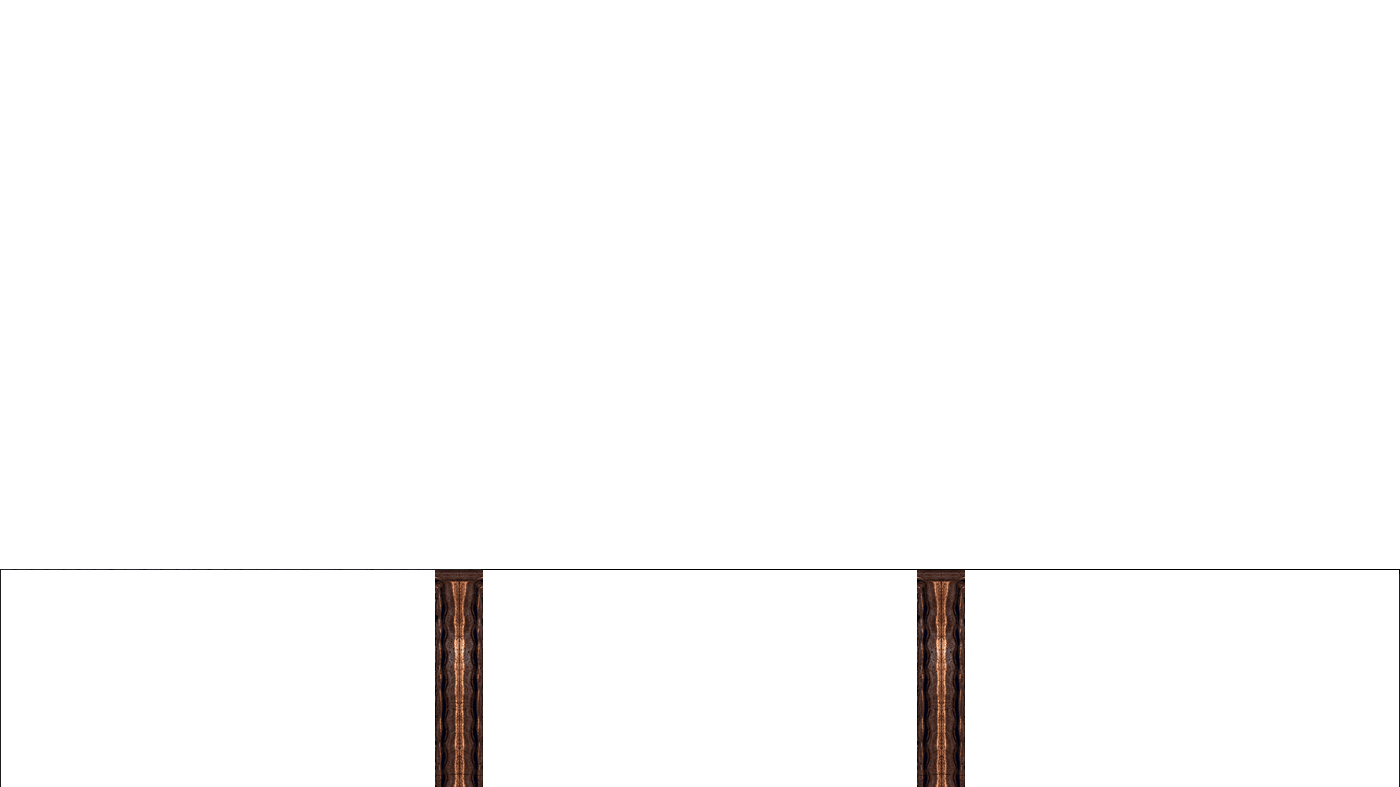
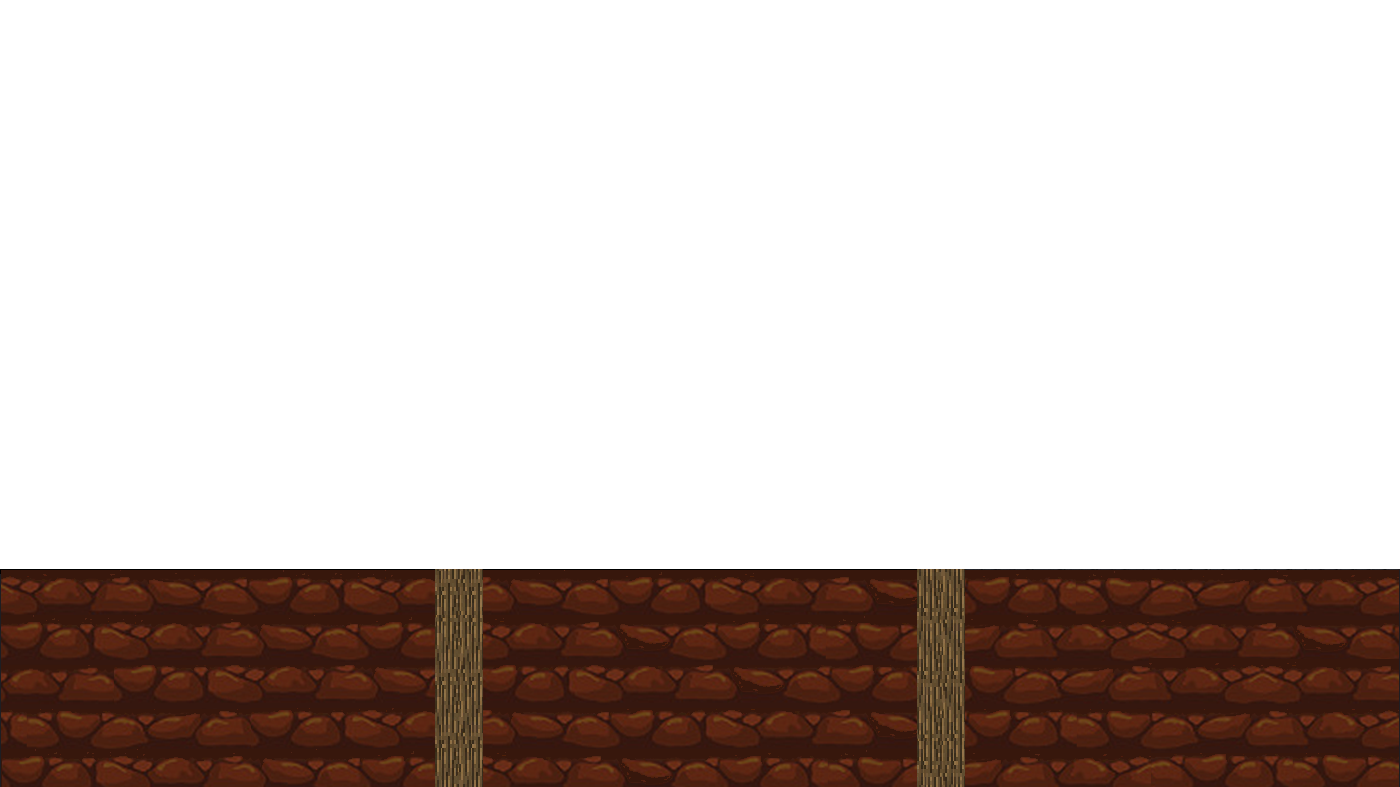
Atualizando

Changed region(s): [[0.0, 0.7014, 1.0, 1.0]]

diff --git a/JS/script.js b/JS/script.js
@@ -99,124 +99,7 @@ let continuaAndando = true;
         velocidade.querySelector(".velocimetro__cover").textContent = Math.round(valor) + " m/s";
     }
     
-//função responsável por obter quais teclas estão sendo precionadas
-class InputHandler{
-    constructor(){
-        this.keys = [];
-        window.addEventListener('keydown', e =>{
-            if((e.key === 'ArrowDown' ||
-                e.key === 'ArrowUp' ||
-                e.key === 'ArrowLeft' ||
-                e.key === 'ArrowRight')
-                && this.keys.indexOf(e.key) === -1){
-                    this.keys.push(e.key);
-            }
-        });
-        window.addEventListener('keyup', e =>{
-            if( e.key === 'ArrowDown' ||
-                e.key === 'ArrowUp' ||
-                e.key === 'ArrowLeft' ||
-                e.key === 'ArrowRight'){
-                    this.keys.splice(this.keys.indexOf(e.key), 1);
-            }
-        });
-    }
-}
 
-class Background{
-    constructor(image, speedModifier){
-        this.image = image;
-        this.width = CANVAS_WIDTH;
-        this.height = CANVAS_HEIGHT;
-        this.x = 0;
-        this.x2 = this.width;
-        this.y = 0;
-        this.speedModifier = speedModifier;
-        this.speed = calculoMovimentacao() * this.speedModifier;
-    }
-    update(){
-        this.speed = calculoMovimentacao() * this.speedModifier;         
-            if(this.x <= -this.width){
-                this.x = this.width + this.x2 - this.speed;
-            }
-            if(this.x2 <= -this.width){
-                this.x2 = this.width + this.x - this.speed;
-            }
-            this.x = Math.floor(this.x - this.speed);
-            this.x2 = Math.floor(this.x2 - this.speed)
-    }
-    draw(){
-        ctx.drawImage(this.image, this.x, this.y, this.width, this.height);
-        ctx.drawImage(this.image, this.x2, this.y, this.width, this.height);
-    }
-}
-
-class Layer{
-    constructor(image){
-        this.image = image;
-        this.width = CANVAS_WIDTH;
-        this.height = CANVAS_HEIGHT;
-        this.x = 0;
-        this.y = 0;
-    }
-    draw(){
-        ctx.drawImage(this.image, this.x, this.y, this.width, this.height);
-    }
-}
-
-class Box{
-    constructor(image){
-        this.width = 150;
-        this.height = 150;
-        this.x = CANVAS_WIDTH/2;
-        this.y = 305;
-        this.image = image;
-    }   
-    draw(){
-        ctx.drawImage(this.image, this.x, this.y, this.width, this.height);
-    } 
-}
-class Robot{
-    constructor(image){
-        this.width = 217;
-        this.height = 200;
-        this.x = 0;
-        this.y = CANVAS_HEIGHT - 450;
-        this.image = image;
-        this.Framex = 0;
-        this.Framey= 0;
-        this.speed = 0;
-        this.vy =0;
-        this.weight = 1;
-        this.tempo = 0;
-        
-    }
-    draw(context){
-        ctx.fillStyle = 'transparent';
-        context.fillRect(this.x, this.y, this.width, this. height);
-        context.drawImage(this.image, this.x, this.y, this.width, this.height);
-    }
-    colide(){
-        if(this.x + this.width > (CANVAS_WIDTH/2)){
-            if(this.x + this.width > (CANVAS_WIDTH/2)){
-                this.x -= ((this.x + this.width) - (CANVAS_WIDTH/2)) - 1; 
-            }
-            return true;
-        }else{
-            return false;
-        }
-        
-    }
-    update(input){ 
-            if(input.keys.indexOf('ArrowRight') > -1){
-                this.speed = 5;
-            }else if(input.keys.indexOf('ArrowLeft') > -1){
-                this.speed = -5;
-            }
-            this.x += this.speed;
-            if(this.x < -this.width) this.x = -this.width;     
-    }    
-}
 
 // funções responsaveis pelos calculos
 
@@ -314,11 +197,136 @@ function calculoMovimentacao(){
         }
         return movimentoSuculento;
 }
+class Background{
+    constructor(image, speedModifier){
+        this.image = image;
+        this.width = CANVAS_WIDTH;
+        this.height = CANVAS_HEIGHT;
+        this.x = 0;
+        this.x2 = this.width;
+        this.x3 = 2*this.width;
+        this.y = 0;
+        this.speedModifier = speedModifier;
+        this.speed = calculoMovimentacao() * this.speedModifier;
+    }
+    update(){
+        this.speed = calculoMovimentacao() * this.speedModifier;         
+            if(this.x <= -this.width){
+                this.x = this.width + this.x3 - this.speed;
+            }
+            if(this.x2 <= -this.width){
+                this.x2 = this.width + this.x - this.speed;
+            }
+            if(this.x3 <= -this.width){
+                this.x3 = this.width + this.x2 - this.speed;
+            }
+            this.x = Math.floor(this.x - this.speed);
+            this.x2 = Math.floor(this.x2 - this.speed)
+            this.x3 = Math.floor(this.x3 - this.speed)
+    }
+    draw(){
+        ctx.drawImage(this.image, this.x, this.y, this.width, this.height);
+        ctx.drawImage(this.image, this.x2, this.y, this.width, this.height);
+        ctx.drawImage(this.image, this.x3, this.y, this.width, this.height);
+    }
+}
+
+class Layer{
+    constructor(image){
+        this.image = image;
+        this.width = CANVAS_WIDTH;
+        this.height = CANVAS_HEIGHT;
+        this.x = 0;
+        this.y = 0;
+    }
+    draw(){
+        ctx.drawImage(this.image, this.x, this.y, this.width, this.height);
+    }
+}
+
+class Box{
+    constructor(image){
+        this.width = 150;
+        this.height = 150;
+        this.x = CANVAS_WIDTH/2;
+        this.y = 305;
+        this.image = image;
+    }   
+    draw(){
+        ctx.drawImage(this.image, this.x, this.y, this.width, this.height);
+    } 
+}
+class Robot{
+    constructor(image){
+        this.width = 217;
+        this.height = 200;
+        this.x = 0;
+        this.y = CANVAS_HEIGHT - 450;
+        this.image = image;
+        this.Framex = 0;
+        this.Framey= 0;
+        this.speed = 0;
+        this.vy =0;
+        this.weight = 1;
+        this.tempo = 0;
+        
+    }
+    draw(context){
+        ctx.fillStyle = 'transparent';
+        context.fillRect(this.x, this.y, this.width, this. height);
+        context.drawImage(this.image, this.x, this.y, this.width, this.height);
+    }
+    colide(){
+        if(this.x + this.width > (CANVAS_WIDTH/2)){
+            if(this.x + this.width > (CANVAS_WIDTH/2)){
+                this.x -= ((this.x + this.width) - (CANVAS_WIDTH/2)) - 1; 
+            }
+            return true;
+        }else{
+            return false;
+        }
+        
+    }
+    update(input){ 
+            
+            if(input.keys.indexOf('ArrowRight') > -1){
+                this.speed = 5;
+            }else if(input.keys.indexOf('ArrowLeft') > -1){
+                this.speed = -5;
+            }
+            this.x += this.speed;
+            if(this.x < -this.width) this.x = -this.width;     
+    }    
+}
+
+//função responsável por obter quais teclas estão sendo precionadas
+class InputHandler{
+    constructor(){
+        this.keys = [];
+        window.addEventListener('keydown', e =>{
+            if((e.key === 'ArrowDown' ||
+                e.key === 'ArrowUp' ||
+                e.key === 'ArrowLeft' ||
+                e.key === 'ArrowRight')
+                && this.keys.indexOf(e.key) === -1){
+                    this.keys.push(e.key);
+            }
+        });
+        window.addEventListener('keyup', e =>{
+            if( e.key === 'ArrowDown' ||
+                e.key === 'ArrowUp' ||
+                e.key === 'ArrowLeft' ||
+                e.key === 'ArrowRight'){
+                    this.keys.splice(this.keys.indexOf(e.key), 1);
+            }
+        });
+    }
+}
 
 const input = new InputHandler();
 const background = new Background(backgroundImage, 0.01);
-const tower = new Background(towerImage, 0.4);
-const floor = new Background(floorImage, 1);
+const tower = new Background(towerImage, 0.2);
+const floor = new Background(floorImage, 0.6);
 const layer = new Layer(layerImage);
 const box = new Box(boxImage);
 const robot = new Robot(robotImage);
@@ -338,7 +346,7 @@ function start(){
     let x = robot.colide();
     if(x == true){
         console.log(x);
-        animate();
+        animate();  
     }else{
         requestAnimationFrame(start);
         console.log(x);

diff --git a/CSS/style.css b/CSS/style.css
@@ -1,3 +1,5 @@
+@import url('https://fonts.googleapis.com/css2?family=VT323&display=swap');
+
 @font-face {
     font-family: 'Orbitron';
     font-style: normal;
@@ -6,10 +8,13 @@
     unicode-range: U+0000-00FF, U+0131, U+0152-0153, U+02BB-02BC, U+02C6, U+02DA, U+02DC, U+2000-206F, U+2074, U+20AC, U+2122, U+2191, U+2193, U+2212, U+2215, U+FEFF, U+FFFD;
 }
 
+
 body{
     background: gray;
     place-items: center;
     text-align: center;
+    font-family: 'VT323', monospace;
+    font-size: 10px;
 }
 
 canvas{
